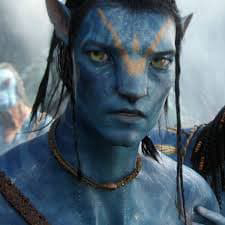
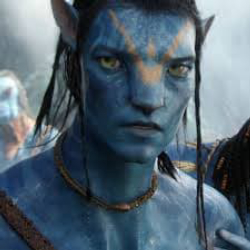
update jimp logic, forgot to resize height/width

diff --git a/controllers/users/users.js b/controllers/users/users.js
@@ -125,8 +125,9 @@ const usersControllers = {
 
             try {
             const avatar = await Jimp.read(tempPath); // Read the temporary uploaded file using Jimp
-               await resizeImageToMaxSize(tempPath, fileName, (1024*1024)); 
-               await avatar.writeAsync(fileName)
+                await resizeImageToMaxSize(tempPath, fileName, (1024 * 1024));
+                await avatar.resize(250, 250); 
+                await avatar.writeAsync(fileName);
             } catch (jimpError) {
                 console.error('Jimp Error:', jimpError);
                 res.status(500).json({ message: 'Error processing avatar' });
